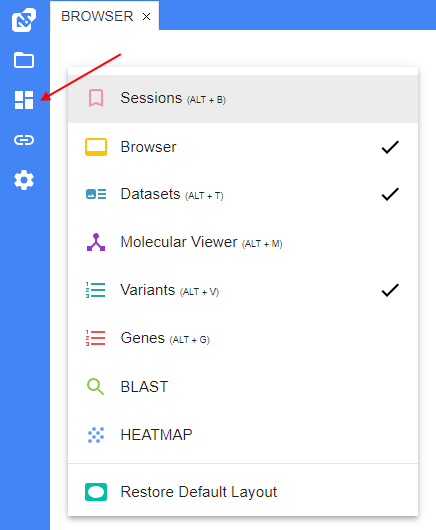
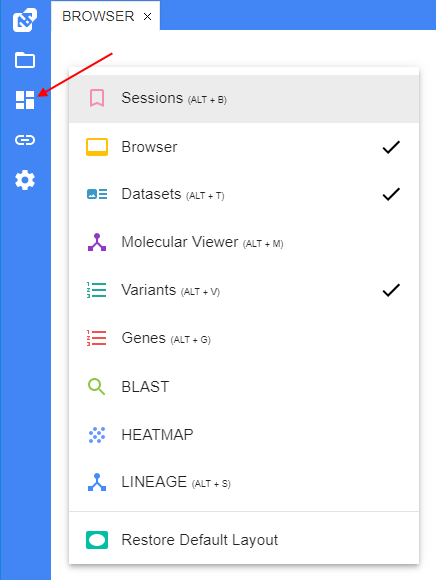
'Strain Lineage' docs and RN

diff --git a/docs/md/user-guide/strain-lineage.md b/docs/md/user-guide/strain-lineage.md
@@ -1,0 +1,133 @@
+# Strain Lineage
+
+- [Displaying details](#displaying-details)
+    - [Node](#node)
+    - [Edge](#edge)
+    - [Manage the view](#manage-the-view)
+- [Format details](#format-details)
+
+NGB supports visualization of a lineage for a family of strains or reference genomes.  
+Lineage is represented as a one-directional graph where each node represent a strain (genome) and each edge between nodes represent an impact used to create a progeny from a parent strain.
+
+There are two ways to open lineage-tree in which the current reference (strain) is included:
+
+- from the **General** menu for the reference track at the **Browser** panel:  
+  ![NGB GUI](images/lineage-01.png)
+- from the corresponding item in the **VIEWS** menu:  
+  ![NGB GUI](images/lineage-02.png)
+
+In both cases, the **Lineage** panel will be opened.  
+This panel contains all lineages in which the current opened reference is included.
+
+![NGB GUI](images/lineage-03.png)
+
+As the current reference can be included in several lineages - lineage to display is being chosen from the _source_ dropdown list in the top of the panel (only one lineage can be shown at once), e.g.:  
+  ![NGB GUI](images/lineage-04.png)
+
+## Displaying details
+
+At the top of the lineage, its description is displayed (if exists).  
+Strains (tree nodes) are displayed as rectangles with some info inside.  
+Links between strains (edges) are displayed as corresponding arrows.
+
+### Node
+
+Each node of the lineage tree has the following attributes:
+
+- **_name_** - strain name that will be displayed on the lineage
+- **_description_** - text description of the strain
+- **_reference ID_** (_optional_) - NGB ID of the reference that corresponds to the strain
+- **_sequencing date_** - date of the strain creation
+- **_metadata_** (_optional_) - a set of key-value metadata attached to the strain
+
+Inside the node, its **_name_** and **_sequencing date_** are displayed:  
+  ![NGB GUI](images/lineage-05.png)
+
+To view full node's info, including **_description_** and **_metadata_**, you should click the node:  
+  ![NGB GUI](images/lineage-06.png)  
+  Node's info block will appear in the right upper corner of the panel.
+
+If a node is associated with a reference ID, node's name is displayed as a hyperlink.  
+You can click it to navigate to the corresponding reference track (at the same time, the lineage panel remains opened).  
+If a node is not associated with a reference ID, its name is displayed as plain text, e.g.:  
+  ![NGB GUI](images/lineage-07.png)
+
+### Edge
+
+Each edge of the lineage tree has the following attributes:
+
+- **_type of interaction_** (_optional_) - type of the interaction by which the strain was sequenced
+- **_metadata_** (_optional_) - a set of key-value metadata attached to the edge
+
+At the edge, its **_type of interaction_** is displayed (if specified), e.g.:  
+  ![NGB GUI](images/lineage-08.png)
+
+To view full edge's info, including **_metadata_**, you should click the edge:  
+  ![NGB GUI](images/lineage-09.png)  
+  Edge's info block will appear in the right upper corner of the panel.
+
+### Manage the view
+
+By default, the lineage-tree is being built according to the size of the panel, with optimal scale and with simple "umbrella" structure.  
+
+But if needs, you can:
+
+- place lineage nodes as you wish - for that, click any node and holding the mouse button move the node where you want.  
+E.g., the same lineage from the example above can be restructed in the following way:  
+  ![NGB GUI](images/lineage-10.png)
+- re-locate the whole tree inside the panel - for that, click any empty space near the tree and holding the mouse button move the tree where you want
+- zoom-in/out the tree by the mouse scroll when hovering it
+- also use additional controls at the right side of the panel to:
+    - zoom-in
+    - zoom-out
+    - revert the view - restore the lineage-tree default view  
+    ![NGB GUI](images/lineage-11.png)
+
+## Format details
+
+To create a strain lineage tree, two files should be created - one for nodes and one for edges.
+
+Details:
+
+- file format: tab-delimited text file (`TSV` or `TXT`)
+- `.` or `-` should be used to display an empty value
+- metadata should be a list of `key=value` pairs separated by comma
+- dates should be specified in format `yyyy-MM-dd`
+
+The nodes file contains the following columns:
+
+- _name_ - unique name of the node
+- _description_ - node description
+- _reference\_id_ - NGB reference ID (_optional_)
+- _creation\_date_ - creation date
+- _attributes_ - list of the node metadata (_optional_)
+
+The edges file contains the following columns:
+
+- _from_ - parent node name. The corresponding name shall exist in the nodes file
+- _to_ - child node name. The corresponding name shall exist in the nodes file
+- _attributes_ - list of the edge metadata (_optional_)
+- _type\_of\_interaction_ - type of interaction (_optional_)
+
+So, the following lineage:  
+![NGB GUI](images/lineage-12.png)  
+can be described by:
+
+- the following node file, e.g.:
+
+```
+name        description       reference_id  creation_date   attributes
+Wild_type   description_wild  -             1998-05-11      key1=value1,key2=value2
+Strain-01   description_1     1             1999-12-01      key1=value1
+Strain-02   description_2     -             2001-06-10      key2=value2
+Strain-03   description_3     22            2001-08-29      -
+```
+
+- the following edge file, e.g.:
+
+```
+from        to          attributes    type_of_interaction
+Wild_type   Strain-01   -             UV
+Strain-01   Strain-02   key1=value1   UV
+Strain-01   Strain-03   -             UV
+```

diff --git a/docs/md/release-notes/2.7/2.7.md b/docs/md/release-notes/2.7/2.7.md
@@ -5,6 +5,7 @@
 - [Genes panel](#genes-panel)
 - [Homologs search](#homologs-search)
 - [Heatmap displaying support](#heatmap-displaying-support)
+- [Strain Lineage](#strain-lineage)
 - [Other](#other)
     - [FeatureCounts support](#featurecounts-support)
     - [GenBank support](#genbank-support)
@@ -176,6 +177,34 @@ Besides their main function to visualize data, heatmap labels can also be used t
   ![ReleaseNotes_2.7](images/RN_Heatmap_5.png)
 
 For more details see [here](../../user-guide/tracks-heatmap.md).
+
+## Strain Lineage
+
+From the current version, NGB supports visualization of a lineage for a family of strains or reference genomes.  
+**Lineage** is represented as a one-directional graph where each node represent a strain (genome) and each edge between nodes represent an impact used to create a progeny from a parent strain.
+
+To open a lineage, in which the current genome is included, user should use the corresponding item in the **General** menu of the reference track:  
+  ![ReleaseNotes_2.7](images/RN_Lineage_1.png)
+
+The lineage will be displayed in the separate panel (**LINEAGE** panel):  
+  ![ReleaseNotes_2.7](images/RN_Lineage_2.png)
+
+At the top of the lineage, its description is displayed.  
+Strains (tree nodes) are displayed as rectangles with info inside.  
+Links between strains (edges) are displayed as corresponding arrows.
+
+Inside the node, its **_name_** and **_sequencing date_** are displayed. Additionally, for a node, can be specified text **_description_** and key-value pairs of **_metadata_** (attributes).  
+To view full node's info, user should click the node:  
+  ![ReleaseNotes_2.7](images/RN_Lineage_3.png)  
+
+If a node is associated with a reference ID, node's name is displayed as a hyperlink.  
+User can click it to navigate to the corresponding reference track.
+
+At the edge, its **_type of interaction_** is displayed. Additionally, for an edge, can be specified key-value pairs of **_metadata_** (attributes).  
+To view full edge's info, user should click the edge:  
+  ![ReleaseNotes_2.7](images/RN_Lineage_4.png)  
+
+For more details see [here](../../user-guide/strain-lineage.md).
 
 ***
 

diff --git a/docs/md/user-guide/overview.md b/docs/md/user-guide/overview.md
@@ -8,6 +8,7 @@
     - [Molecular viewer](#molecular-viewer-panel)
     - [BLAST search](#blast-panel)
     - [Heatmap panel](#heatmap-panel)
+    - [Lineage panel](#lineage-panel)
 - [Taking screenshots](#taking-screenshots)
 
 The NGB user interface is implemented as the main menu on the left side and a set of panels that can be resized, moved, docked anywhere within the browser window, maximized or hidden.  
@@ -234,6 +235,19 @@ Besides their main function to visualize data, heatmaps can also be used to navi
 ![NGB GUI](images/overview-51.png)
 
 For more details see [here](tracks-heatmap.md).
+
+### Lineage panel
+
+Lineage is a one-directional graph where each node represent a strain (genome) and each edge between nodes represent an impact used to create a progeny from a parent strain.  
+NGB supports visualization of a lineage for a family of strains or reference genomes.
+
+![NGB GUI](images/overview-52.png)
+
+Any lineage node (strain) can be associated with a NGB reference ID - in this case, node's name is displayed as a hyperlink.  
+User can click such link to navigate to the corresponding reference track (at the same time, the lineage panel remains opened), e.g.:  
+  ![NGB GUI](images/overview-53.png)
+
+For more details see [here](strain-lineage.md).
 
 ## Taking screenshots
 

diff --git a/docs/README.md b/docs/README.md
@@ -35,6 +35,7 @@ The following sections are currently covered in a documentation
     * [Genes](md/user-guide/genes.md)
     * [BLAST search](md/user-guide/blast-search.md)
     * [Homologs search](md/user-guide/homologs-search.md)
+    * [Strain lineage](md/user-guide/strain-lineage.md)
 * Administrator guide
     * [Overview](md/user-guide/um-overview.md)
     * [Users](md/user-guide/um-users.md)
